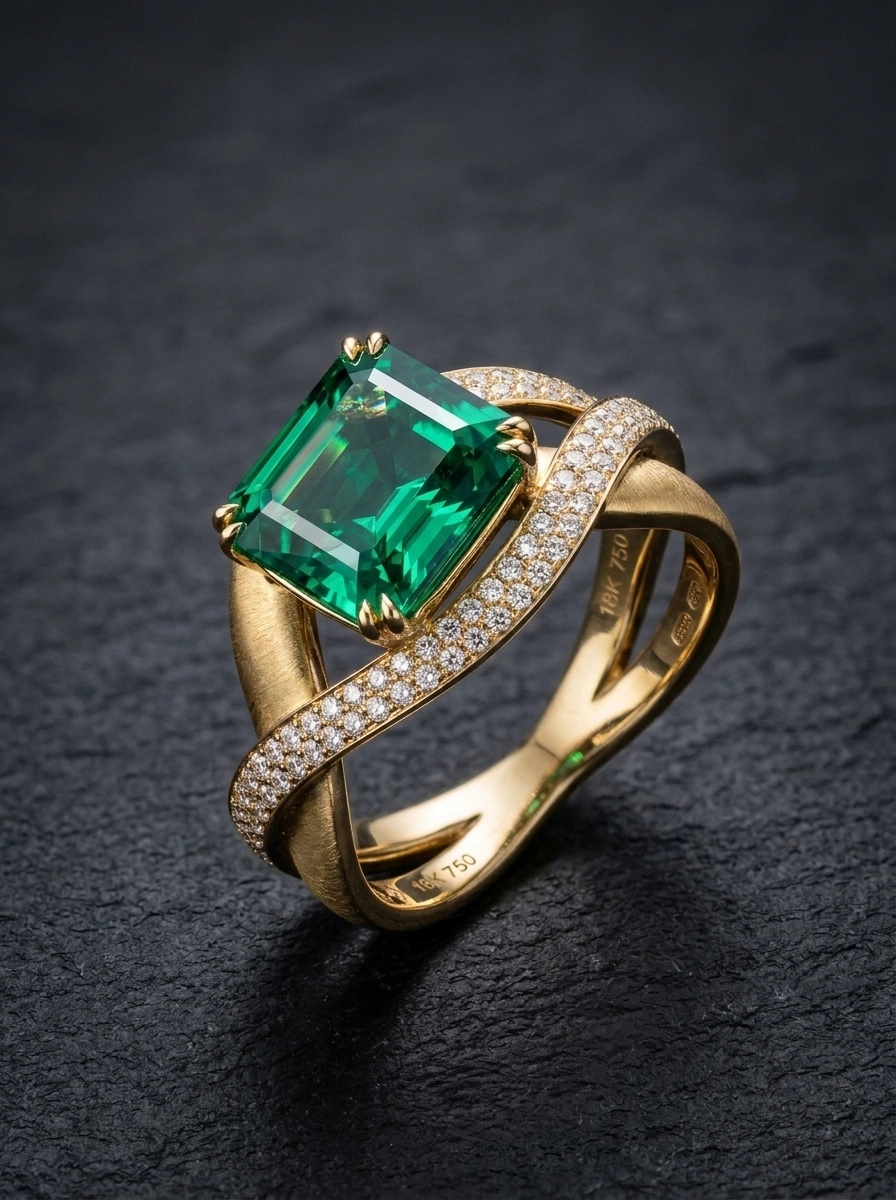
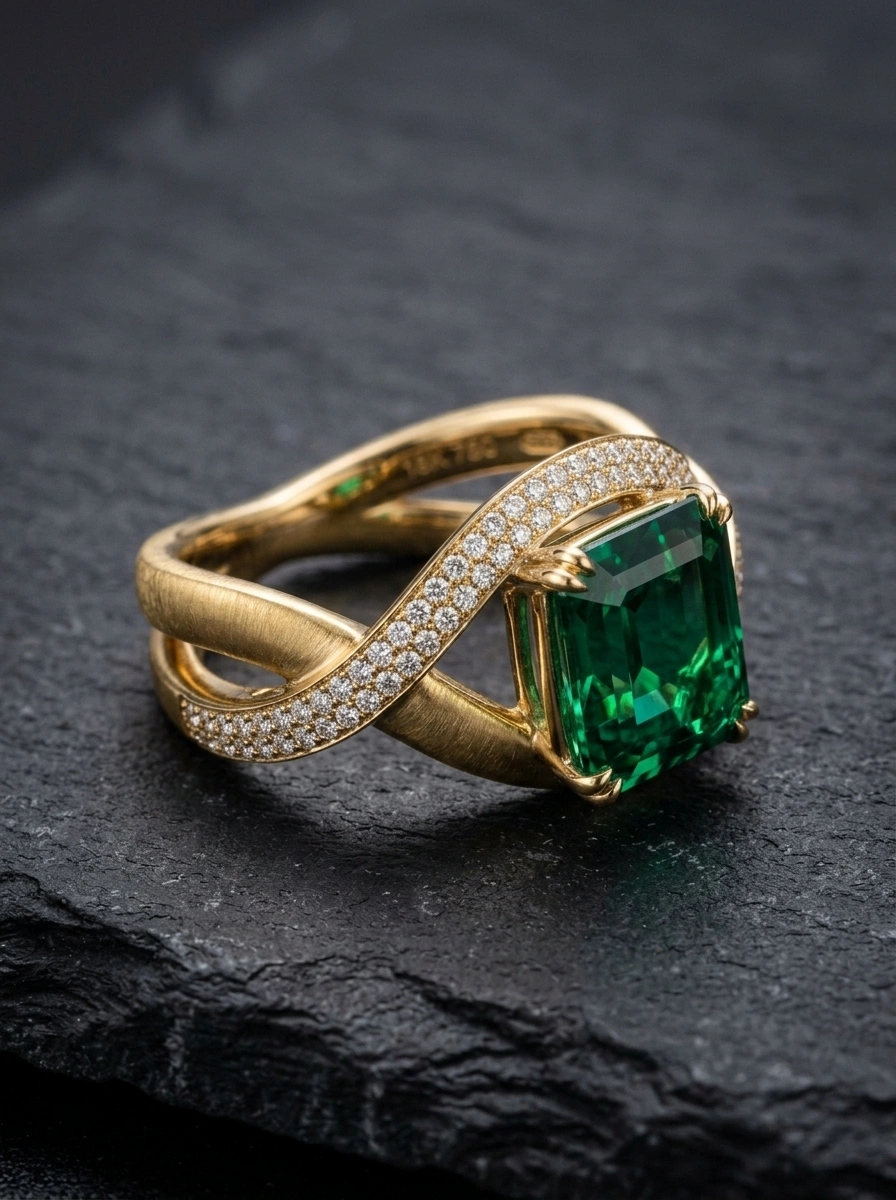
feat(section-2): diversify angles 02, 10, 11, 12 with distinct camera positions and telemetry

diff --git a/src/data/angles.ts b/src/data/angles.ts
@@ -32,15 +32,15 @@ export const ANGLE_SERIES: AngleSpec[] = [
     id: 'angle-02',
     index: 2,
     image: '/assets/angle-02.webp',
-    title: 'Architectural Set · Honed Volcanic Slate',
-    angleTag: '45° VOLCANIC SLATE',
-    elevation: '+45° Elevation',
-    azimuth: '35° Pitch',
-    lens: '85mm Macro · f/5.6',
-    lighting: 'Directional dual rim key with slate shadow rake',
-    focusPoint: 'Beveled metal edge & stone seat',
-    verification: 'Surface Interaction Validated',
-    notes: 'Tests metal-to-stone contact physics. Proves the AI generates crisp contact shadows without hovering or floating artifacts.',
+    title: 'Horizontal Flat-Lay · Honed Volcanic Slate',
+    angleTag: '25° HORIZONTAL FLAT-LAY',
+    elevation: '+25° Low Rake',
+    azimuth: 'Horizontal Shank Lay',
+    lens: '90mm Macro · f/8.0',
+    lighting: 'Directional cross-rake with crisp slate contact shadow',
+    focusPoint: 'Side ribbon profile, shank thickness & emerald gallery',
+    verification: 'True Gravity & Contact Physics',
+    notes: 'Rests horizontally flat on natural slate stone rather than upright. Demonstrates realistic gravitational resting weight, authentic contact shadows, and side shank architecture.',
   },
   {
     id: 'angle-03',
@@ -144,42 +144,42 @@ export const ANGLE_SERIES: AngleSpec[] = [
     id: 'angle-10',
     index: 10,
     image: '/assets/angle-10.webp',
-    title: 'Master Catalogue Still · Seamless Matte Sweep',
-    angleTag: 'CATALOGUE MASTER SWEEP',
-    elevation: '+25° Elevated Horizon',
-    azimuth: '30° Eye Axis',
-    lens: '100mm Macro · f/8.0',
-    lighting: 'RIG-STUDIO-CG locked specification',
-    focusPoint: 'Complete piece on seamless studio sweep',
-    verification: 'Ready for 8K Master Export',
-    notes: 'The definitive catalog master on seamless #0A0A0A sweep. Standardized for e-commerce PDP zoom and print line-sheets.',
+    title: 'Direct Frontal Elevation · Symmetrical Catalog Master',
+    angleTag: '0° DIRECT FRONTAL ELEVATION',
+    elevation: '+5° Horizon Elevation',
+    azimuth: '0° Center Orthogonal',
+    lens: '100mm Macro · f/11.0',
+    lighting: 'Dual balanced 5500K softboxes with neutral dark sweep',
+    focusPoint: 'Bilateral symmetry, emerald table & twin ribbon branches',
+    verification: 'True Bilateral Symmetry',
+    notes: 'Strict orthogonal 0° frontal elevation catalog standard. Validates perfect bilateral symmetry between the satin gold strand and pavé diamond strand with zero lens distortion.',
   },
   {
     id: 'angle-11',
     index: 11,
     image: '/assets/angle-11.webp',
-    title: 'Oblique Axis · Continuous Contour',
-    angleTag: 'OBLIQUE PROFILE SWEEP',
-    elevation: '+45° Oblique Axis',
-    azimuth: '315° Sweep',
+    title: 'Reverse Oblique · Under-Gallery & Rear Architecture',
+    angleTag: '315° REAR OBLIQUE',
+    elevation: '+40° Rear Elevation',
+    azimuth: '315° Reverse Axis',
     lens: '100mm Macro · f/8.0',
-    lighting: 'Omni Studio Key Sweep with 30% fill',
-    focusPoint: 'Continuous band circumference & emerald fire',
-    verification: '100% Geometry Matched',
-    notes: 'Precision multi-perspective capture demonstrating zero facet jitter across complex elevation shifts.',
+    lighting: 'High-rake rim light highlighting back curves and pavilion relief',
+    focusPoint: 'Rear crossover ribbon & open-work pavilion gallery',
+    verification: '100% Structural Consistency',
+    notes: 'Captures the reverse backside of Candidate B from a 315° angle. Reveals the under-gallery structural architecture and back ribbon contour that are invisible in front views.',
   },
   {
     id: 'angle-12',
     index: 12,
     image: '/assets/angle-12.webp',
-    title: 'Atmospheric Editorial · Campaign Master',
-    angleTag: 'HAUTE JOAILLERIE SPREAD',
-    elevation: '+20° Low Editorial',
-    azimuth: '45° Natural Gaze',
-    lens: '85mm Prime · f/2.0',
-    lighting: '3200K Tungsten Practical Bokeh',
-    focusPoint: 'Primary Pavé Ridge & Focal Sparkle',
-    verification: '8K Print Certified',
-    notes: 'The crowning campaign spread visual combining all optical benchmarks into one definitive master.',
+    title: 'Boutique Presentation · Velvet Casket Vitrine',
+    angleTag: 'HAUTE JOAILLERIE PRESENTATION',
+    elevation: '+35° High Editorial',
+    azimuth: '45° Vitrine Angle',
+    lens: '85mm Prime · f/2.8',
+    lighting: 'Warm 3200K boutique spotlight with velvety shadow drop',
+    focusPoint: 'Ring nested in velvet slot with silk lid reflection',
+    verification: 'Luxury Packaging Presentation',
+    notes: 'Showcases Candidate B nested inside a bespoke forest-green velvet jeweler casket. Proves realistic textile-to-gold interaction, plush velvet light absorption, and boutique retail ambiance.',
   },
 ];
